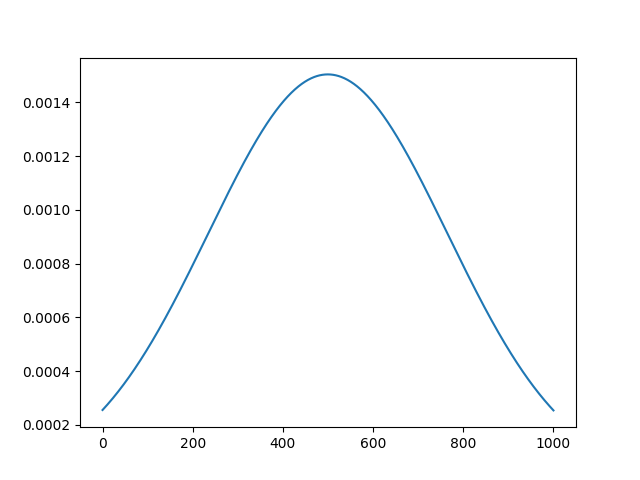
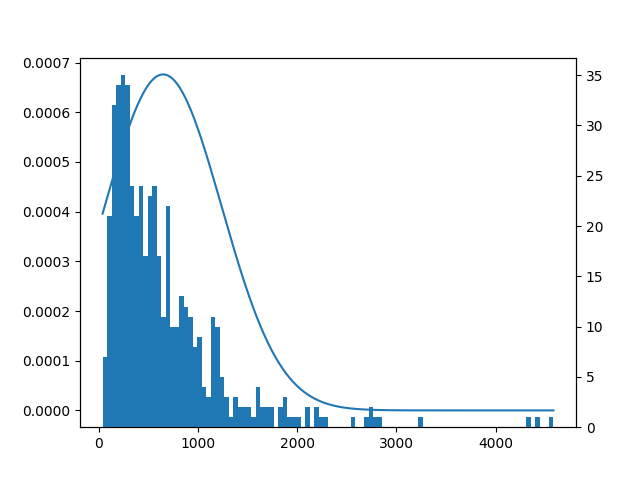
LH    : [fix] mislead in problem

diff --git a/02.review.length.py b/02.review.length.py
@@ -1,5 +1,6 @@
 # Target plot histogram of review length
 import math
+import json
 
 import matplotlib.pyplot as plt
 import numpy as np
@@ -12,20 +13,27 @@ import scipy.stats as stats
 #
 # A bit tricky but accepting it ok :P
 
-# Configure variable
-num_sample = 1000
-start_pos = 0
-end_pos = 1000
+# Load data
+documents = []
+with open("./yelp_academic_500-head-sample.json", "r") as f:
+    for text in f:
+        jsonText = json.loads(text)
+        realText = jsonText['text']
+        documents.append(realText)
 
 # data generate
-v_range = end_pos - start_pos
-generator = stats.truncnorm(-1, 1, loc=0, scale=1)
-observes = generator.rvs(num_sample)
-obs_values = [(observes[i] + 1) * (v_range / 2) + start_pos
-              for i in range(num_sample)]
+num_sample = len(documents)
+obs_values = [len(doc) for doc in documents]
+start_pos = min(obs_values)
+end_pos = max(obs_values)
+
+# plot preparation
+fig, ax_left = plt.subplots()
+ax_right = ax_left.twinx()
 
 # histogram by lib :P
-plt.hist(obs_values, bins=int(num_sample / 5))  # bins is number of intervals
+n, x, _ = ax_right.hist(obs_values,
+                   bins=int(num_sample / 5))  # bins is number of intervals
 plt.savefig("./02.review.length.png")
 
 # statistic calculation
@@ -38,6 +46,5 @@ print("sv  : ", stand)
 x_axis = np.linspace(start_pos, end_pos, num_sample)
 
 # norm pdf
-plt.clf()
-plt.plot(x_axis, stats.norm.pdf(x_axis, loc=u, scale=stand))
+ax_left.plot(x_axis, stats.norm.pdf(x_axis, loc=u, scale=stand))
 plt.savefig("./02.review.length.estimated.png")
